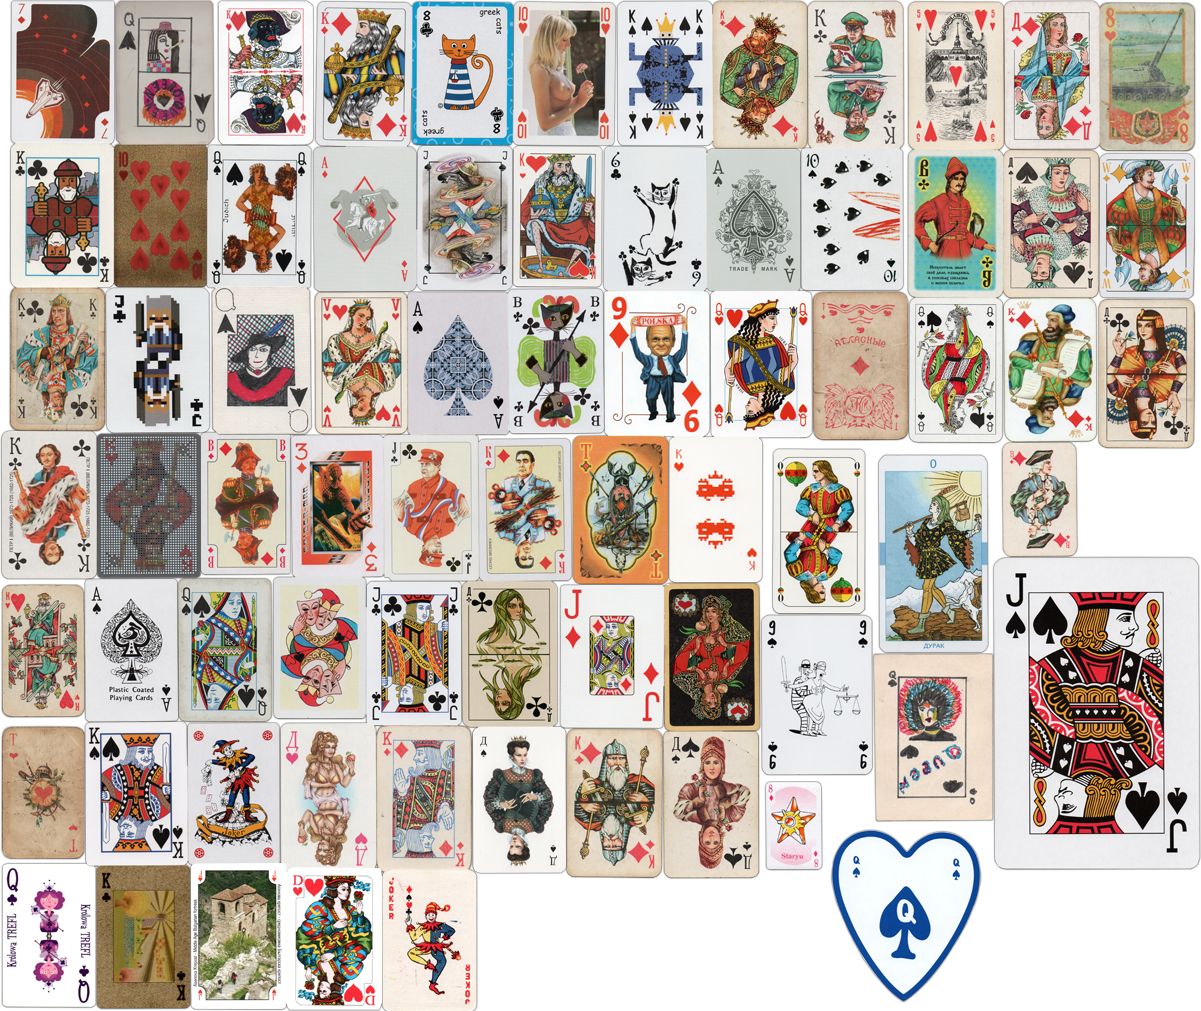
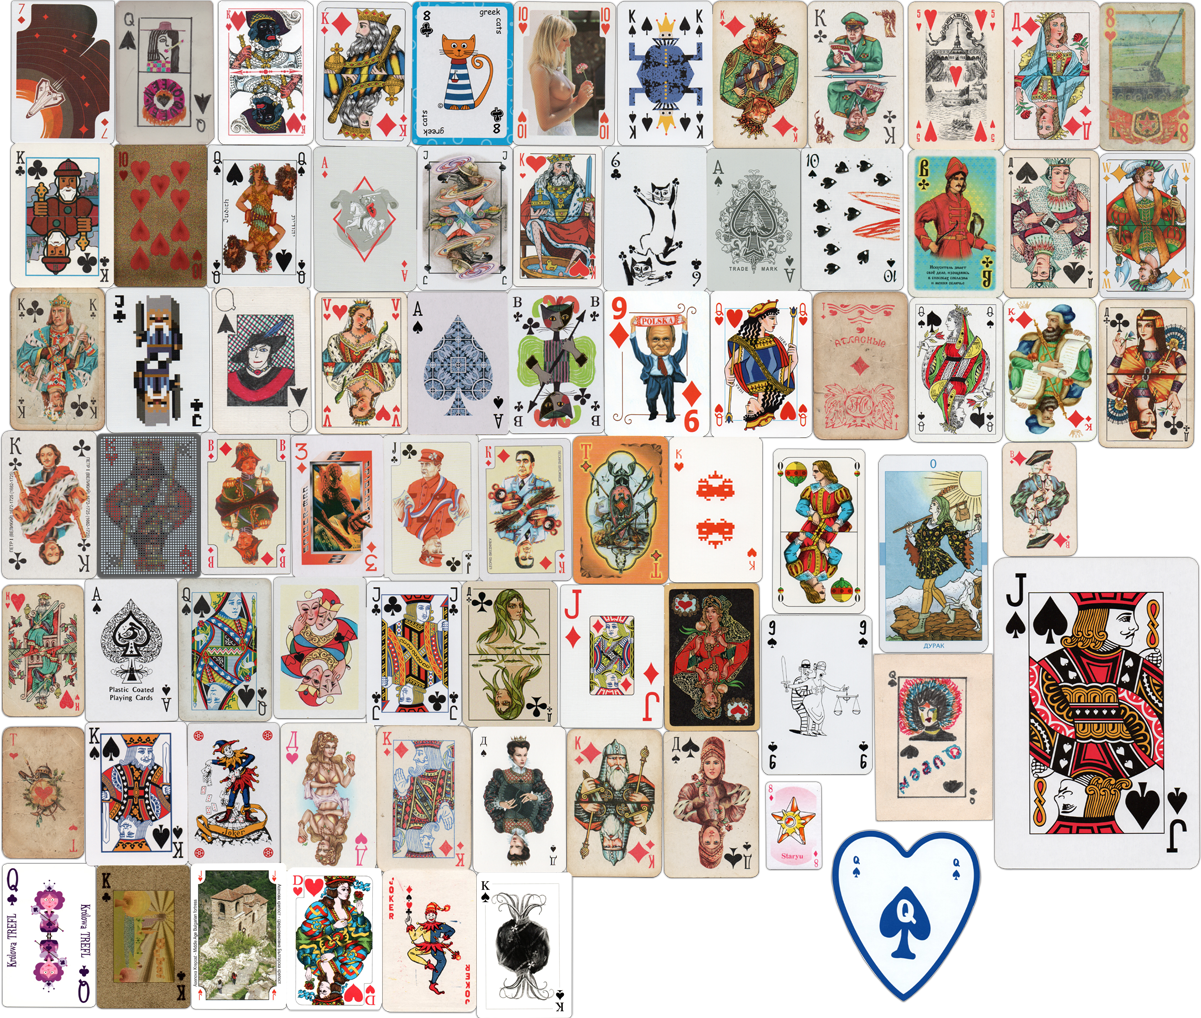
Playing cards: Update image

Changed region(s): [[0.0, 0.0307, 1.0, 1.0], [0.0, 0.0613, 0.0616, 0.1227]]

diff --git a/src/app/data/translations/ru.ts b/src/app/data/translations/ru.ts
@@ -413,9 +413,9 @@ export const ru: TranslatedStrings = {
     data: {
       p1: 'Коллекционирую с детства.',
       p2: 'Не ставлю себе задачу собрать очень много и всё подряд, поэтому коллекция не очень \
-большая и насчитывает на данный момент (январь 2019) около 70 колод. Собираю именно те, \
+большая и насчитывает на данный момент более 70 колод. Собираю именно те, \
 которые понравились.',
-      imgTitle: 'По одной карте из каждой колоды (кликабельно). Январь 2019',
+      imgTitle: 'По одной карте из каждой колоды (кликабельно). Март 2019',
     },
   },
   Poland: {

diff --git a/src/app/data/translations/en.ts b/src/app/data/translations/en.ts
@@ -354,9 +354,9 @@ Evolution: The Origin of Species</a></li>
     data: {
       p1: 'Collecting since my childhood.',
       p2: 'There is no purpose to gather everything from everywhere, \
-so the collection is no so big and contains today (January 2019) about 70 decks. \
+so the collection is no so big and contains today more than 70 decks. \
 Collecting those which I really like.',
-      imgTitle: 'One card from each deck (clickable). January 2019',
+      imgTitle: 'One card from each deck (clickable). March 2019',
     },
   },
   Poland: {
